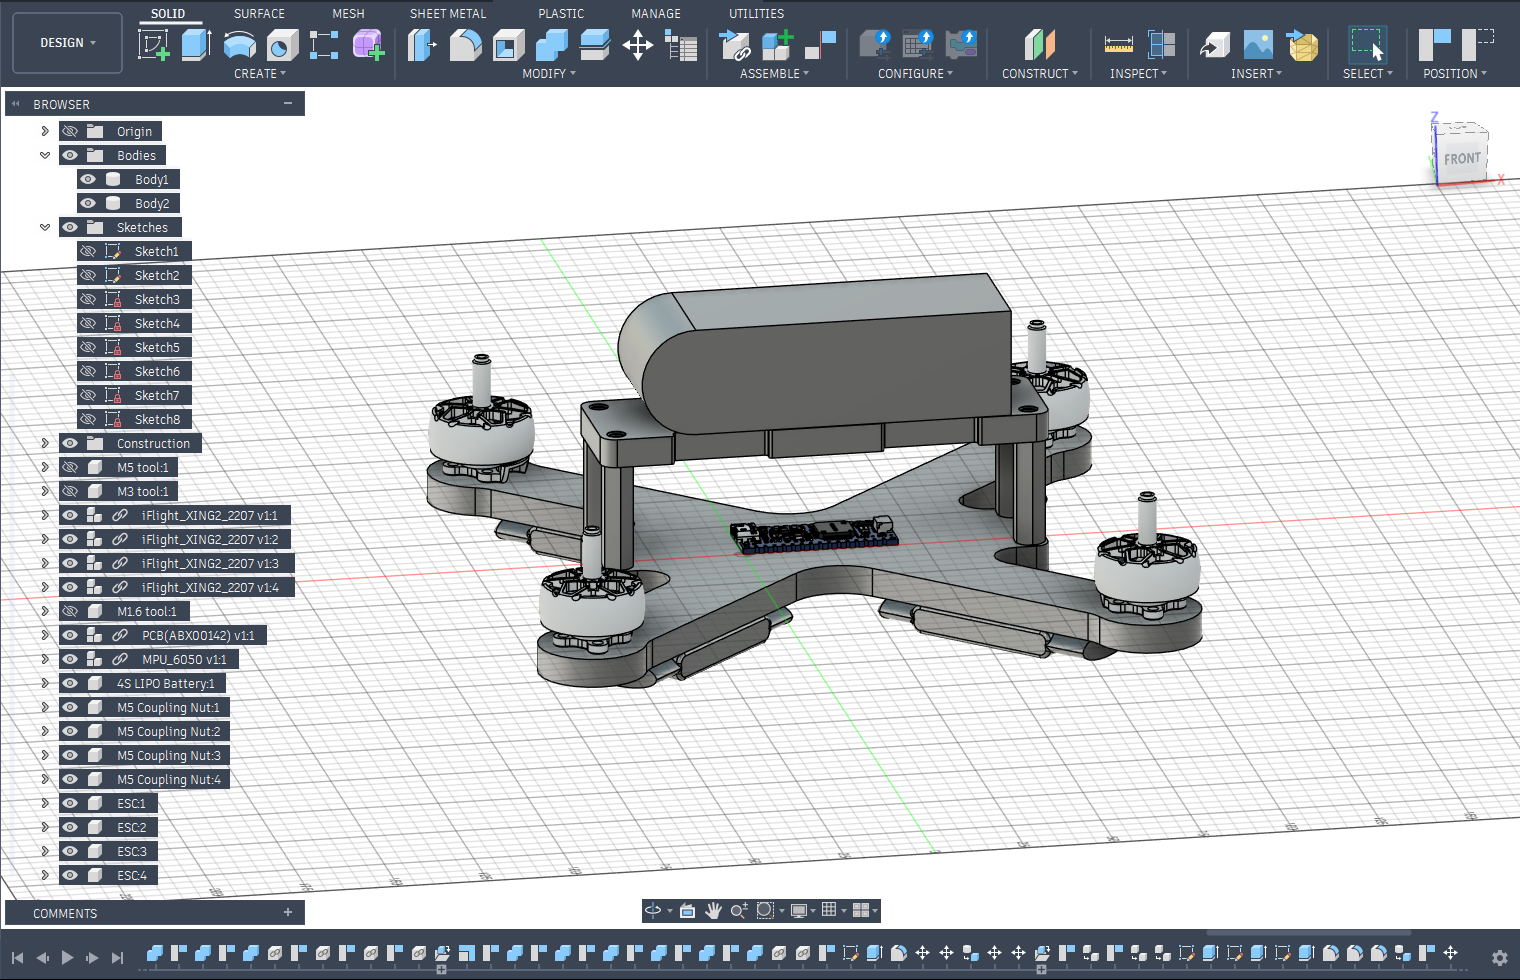
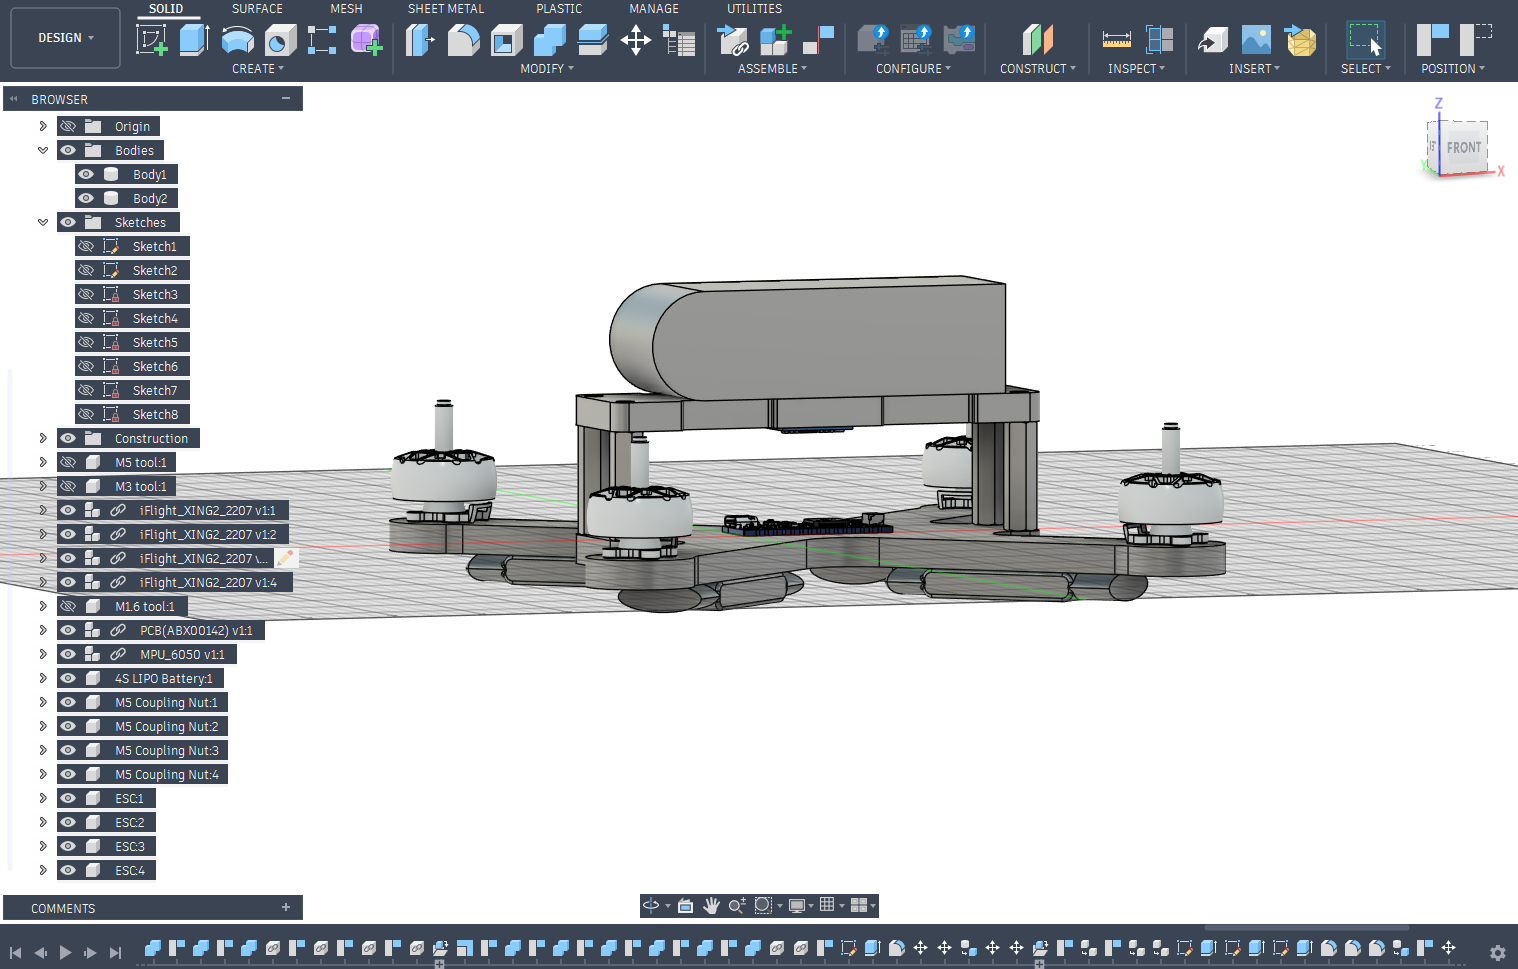
fixed stuff

diff --git a/JOURNAL.md b/JOURNAL.md
@@ -32,7 +32,7 @@ I fixed the SDA pin not being connected, changed the circuit to be powerd by onl
 
 
 # 3rd May: Made V2 of drone model and fixed voltage level on drone logic pin
-I took some inspiration from FPV drones where I saw lots of them have thir batteries strapped down on top of drone, and I also thought to put the ESCs on the struts of the drone to save space on the main body, and designed the main body to accomodate one battery with indented slots for the straps. I'm planning to mount the ESCs under the struts with zipties. I added some of the bolts and standoffs in this version as well as cutting out the holes for the bolts (1.15x enlarged from prior experience) but will finalise it later.
+I took some inspiration from FPV drones where I saw lots of them have thir batteries strapped down on top of drone, and I also thought to put the ESCs on the struts of the drone to save space on the main body, and designed the main body to accomodate one battery with indented slots for the straps. The arduino will be mounted in centre on the base and the IMU will be mounted on the ceiling of the section direcctly above it. I'm planning to mount the ESCs under the struts with zipties. I added some of the bolts and standoffs in this version as well as cutting out the holes for the bolts (1.15x enlarged from prior experience) but will finalise it later.
 I also realised that the ESP version of the arduino nano can only handle 3.3 volts through its logic pins and luckily the MPU-6050 functions on 3.3 volts so I rewired it to have it be powerd by the 3.3 volt pin on the nano. I will fix this issue on the controller wiring later.
 As a sidenote I will have the main frame of the drone (and controller casing) 3D printed
 
